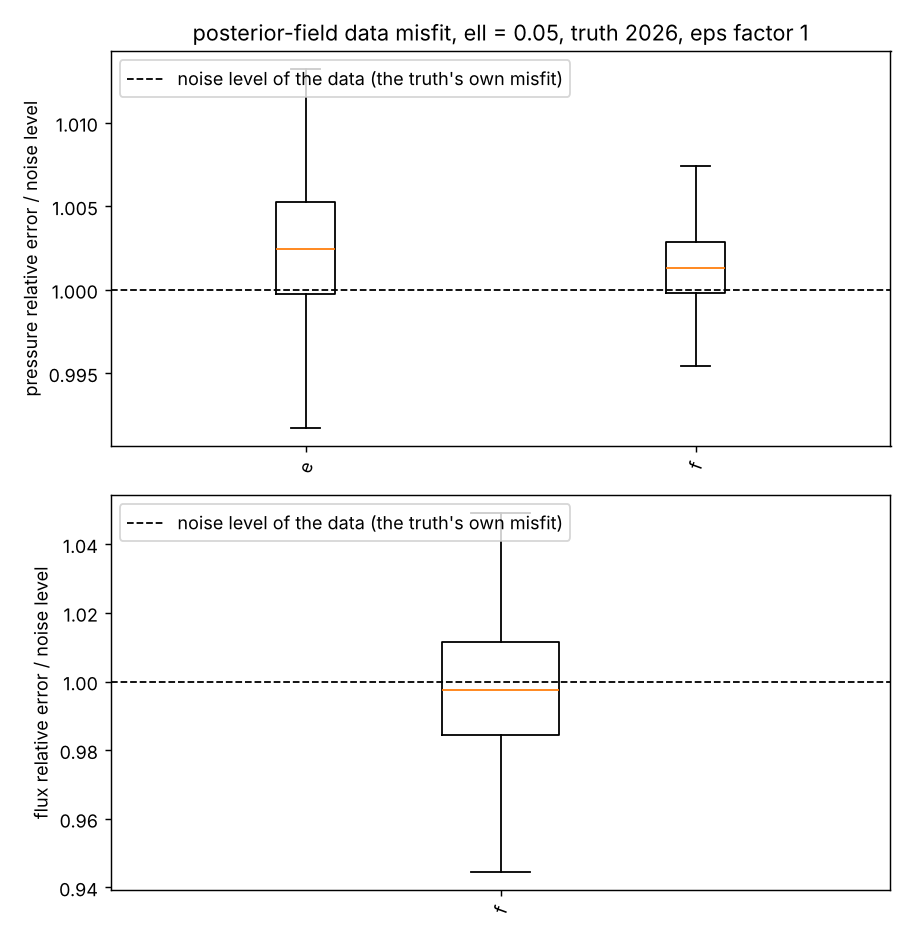
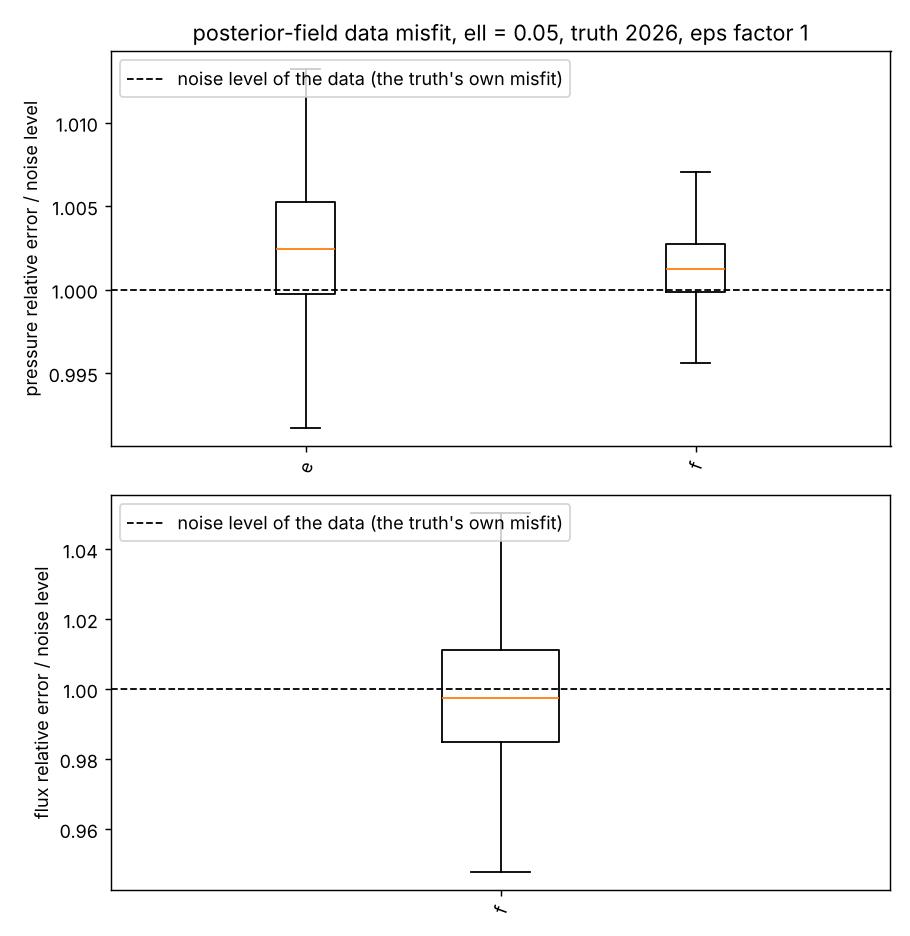
dd_end: stage 2 complete; posts record the burn they used; flux burn-ins set from the measured stays-below iterations (7k, 25k, 360k)
Claude-Session: https://claude.ai/code/session_01EYWgucWp5VMKdEriH5G1ud

diff --git a/experiments/run_dd_post.py b/experiments/run_dd_post.py
@@ -84,6 +84,7 @@ def main(argv=None):
     ap.add_argument("--mpsrf-step-its", type=int, default=None,
                     help="iterations between MPSRF curve points (default: %d saved samples)" % RP.MPSRF_STEP)
     ap.add_argument("--mpsrf-log", action="store_true", help="log-spaced MPSRF curve points, no ignored points (use with --mpsrf-start 0)")
+    ap.add_argument("--burn", type=int, default=None, help="discard this many iterations before the fields and statistics (overrides the run's own burn)")
     ap.add_argument("--seed", type=int, default=11)
     ap.add_argument("--overlap-blend", action="store_true", help="overlapping runs: assemble with the smooth partition of unity (re-post of existing chains)")
     ap.add_argument("--ref", default=REF, help="post_summary.json of the global-pCN run (sd ratio), optional")
@@ -105,6 +106,9 @@ def main(argv=None):
         grid_name, n, M, se = st["grid"], st["n_iter"], st["adapt"], st["save_every"]
         if st.get("burn") is not None:                            # frozen-step restart: discard `burn`, not the (zero) adaptation
             M = st["burn"]
+        if a.burn is not None:                                    # override (the chains were still converging after the run's burn)
+            M = a.burn
+        res["burn_used"] = int(M)
         if a.mpsrf_step_its:
             RP.MPSRF_STEP = max(1, a.mpsrf_step_its // se)
         Z = np.load(os.path.join(d, "chains.npz"))

diff --git a/experiments/dd_end_collect.py b/experiments/dd_end_collect.py
@@ -69,8 +69,9 @@ def collect_run(d, method):
             continue
         r = dict(variant=name, status="done", **_field_metrics(fn, prefix), **timing)
         r["sup_mpsrf"], r["psrf_max"], r["conv_it"], r["stays_below_it"] = _mpsrf(ps, method, name)
-        r["burn"] = st.get("burn")
-        r["burn_ok"] = (r["stays_below_it"] is not None and st.get("burn") is not None and st["burn"] >= r["stays_below_it"])
+        burn = json.load(open(ps)).get("burn_used", st.get("burn"))      # the burn the post actually used (a re-post may override the run's own)
+        r["burn"] = burn
+        r["burn_ok"] = (r["stays_below_it"] is not None and burn is not None and burn >= r["stays_below_it"])
         rows.append(r)
     return rows
 

diff --git a/cluster/gen_dd_end_sbatch.py b/cluster/gen_dd_end_sbatch.py
@@ -37,7 +37,7 @@ ITERS = {(0.2, True): (20000, 300000, 200000, 1), (0.1, True): (30000, 500000, 3
 # pressure-only cells (slow pCN).  The MPSRF window starts at iteration 0 on log-spaced points, so the convergence iteration is visible; the
 # post reports whether the burn-in is at or beyond the iteration from which the curve stays below 1.2 and can be re-run with --burn.
 SAVE_MIN = {0.2: 5, 0.1: 10, 0.05: 50}
-BURN_FLUX = {0.2: 500, 0.1: 5000, 0.05: 50000}
+BURN_FLUX = {0.2: 7000, 0.1: 25000, 0.05: 360000}      # measured in stage 2: stays-below-1.2 iterations 6.3k, 23k, 356k (global pCN, pressure + flux)
 
 
 def save_every(cell, restart=None):

diff --git a/experiments/run_msm_post.py b/experiments/run_msm_post.py
@@ -191,6 +191,7 @@ def main(argv=None):
     if kind in ("sequence", "sequence_exact"): ax.axvline(K, color="k", ls="-.")
     ax.set_xlabel("iteration"); ax.set_ylabel("relative error"); ax.legend(); fig.tight_layout()
     fig.savefig(os.path.join(fdir, "relerr_traces.png"), dpi=130); plt.close(fig)
+    res["burn_used"] = int(M)                                   # iterations discarded before the fields and statistics
     res["relerr_post_M_median"] = float(np.median(rel[:, M:]))
     # ---- 3. MPSRF
     mp = {}
